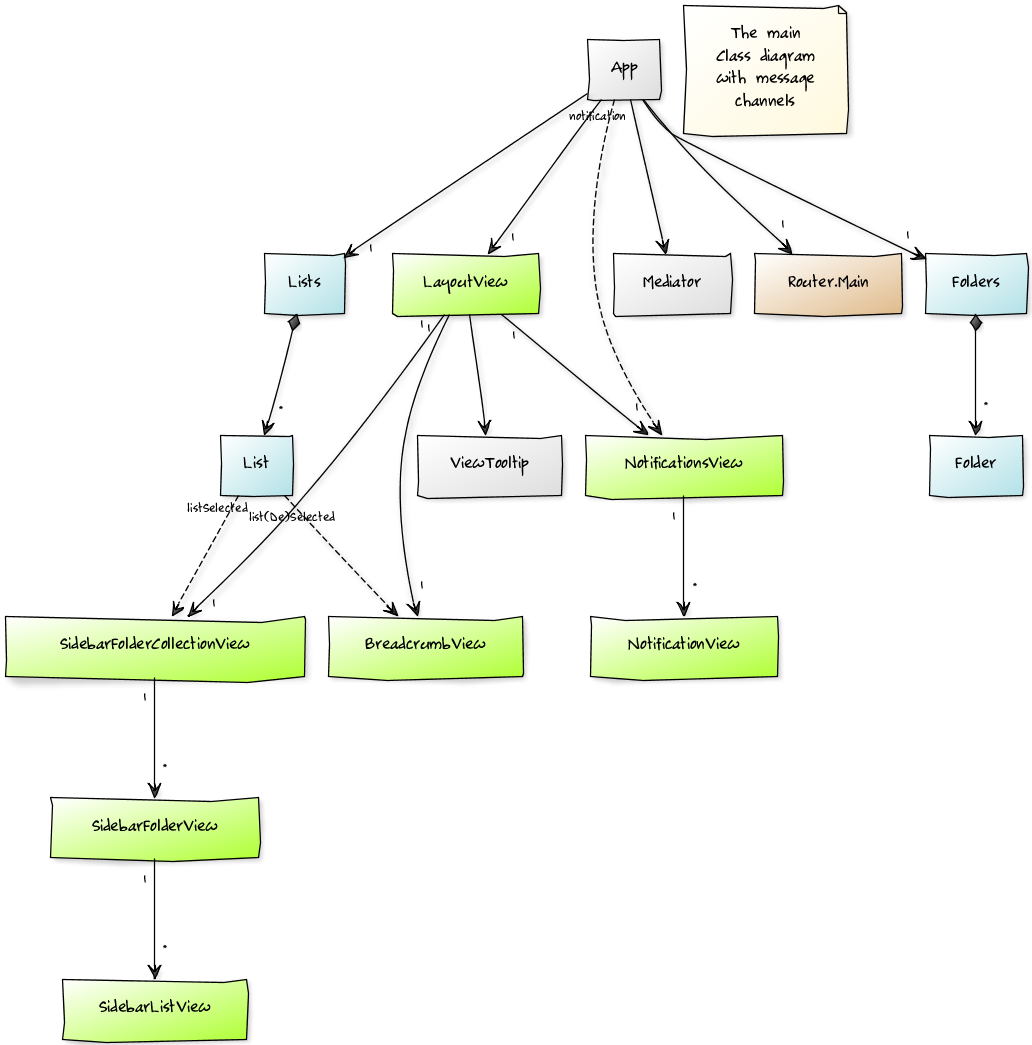
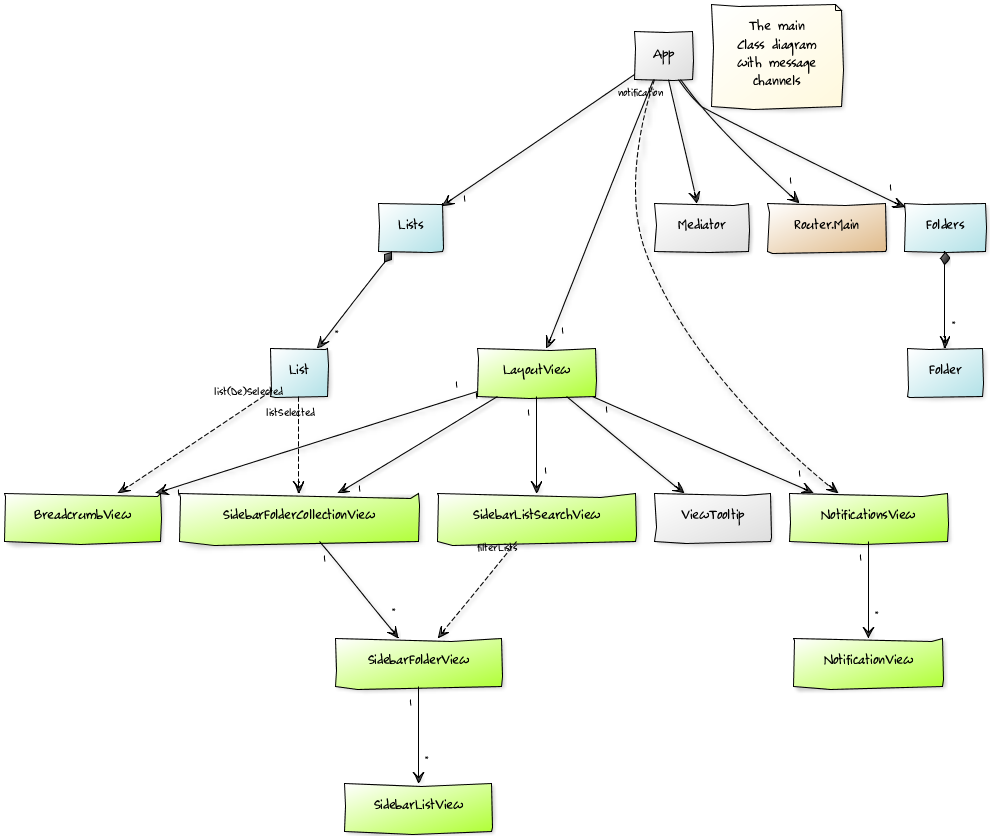
implemented filetring of lists in the sidebar

diff --git a/fundamental.js/index.html b/fundamental.js/index.html
@@ -24,6 +24,7 @@
 
     <script src="js/views/LayoutView.js"></script>
 
+    <script src="js/views/SidebarListSearchView.js"></script>
     <script src="js/views/SidebarListView.js"></script>
     <script src="js/views/SidebarFolderCollectionView.js"></script>
     <script src="js/views/SidebarFolderView.js"></script>
